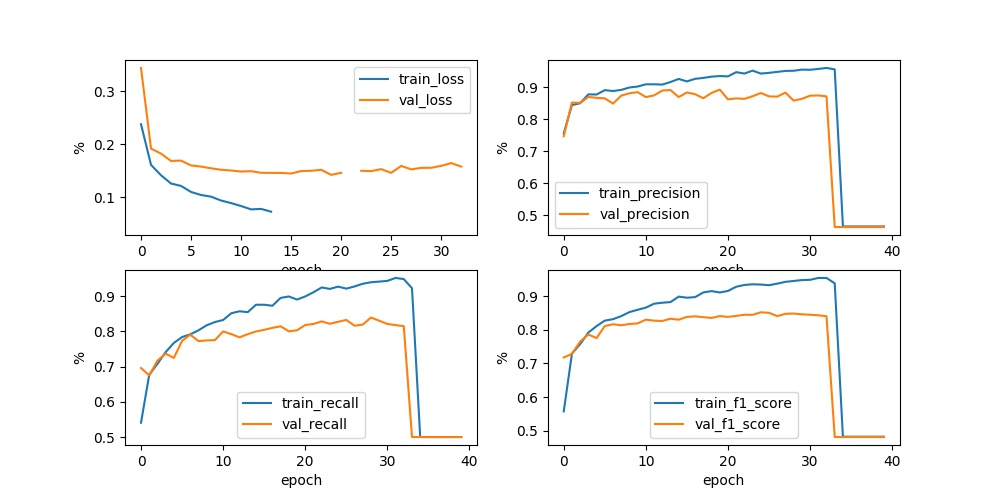
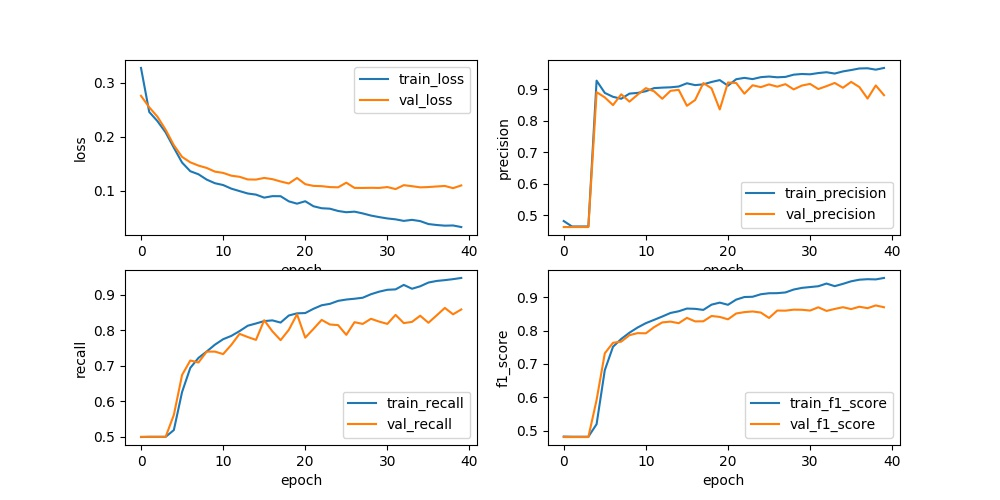
update

diff --git a/model.py b/model.py
@@ -34,7 +34,6 @@ class ConvTagger(nn.Module):
         self.output_projection = nn.Linear(self.feature_size, 2)
 
     def forward(self, sentences, targets):
-        targets = targets.masked_fill(targets > 1, 1)
         mask = sentences != PAD_INDEX
         sentences = self.embedding(sentences)
         targets = self.bio_embedding(targets)
@@ -64,9 +63,7 @@ class ConvLayer(nn.Module):
         self.dropout = dropout
 
     def forward(self, input):
-        # input = input.transpose(1, 2)
         input = self.norm(input)
-        # input = input.transpose(1, 2)
         feature_map = []
         for kernel_size, kernel in zip(self.kernel_sizes, self.kernels):
             left_pad = (kernel_size - 1) // 2
@@ -80,11 +77,36 @@ class ConvLayer(nn.Module):
 
 class RecurrentTagger(nn.Module):
 
-    def __init__(self):
+    def __init__(self, embedding, bio_embed_size, hidden_size, num_layers, dropout, bidirectional):
         super(RecurrentTagger, self).__init__()
+        self.embed_size = embedding.embedding_dim
+        self.embedding = embedding
+        self.bio_embed_size = bio_embed_size
+        self.bio_embedding = nn.Embedding(2, bio_embed_size)
+        self.hidden_size = hidden_size
+        self.num_layers = num_layers
+        self.dropout = dropout
+        self.bidirectional = bidirectional
+        self.rnn = nn.LSTM(
+            input_size=self.embed_size + self.bio_embed_size,
+            hidden_size=self.hidden_size,
+            num_layers=self.num_layers,
+            batch_first=True,
+            dropout=self.dropout,
+            bidirectional=self.bidirectional
+        )
+        self.feature_size = (2 if bidirectional else 1) * hidden_size
+        self.output_projection = nn.Linear(self.feature_size, 2)
 
-    def forward(self, *input):
-        pass
+    def forward(self, sentences, targets):
+        mask = sentences != PAD_INDEX
+        sentences = self.embedding(sentences)
+        targets = self.bio_embedding(targets)
+        feature_map = torch.cat((sentences, targets), dim=-1)
+        feature_map, _ = self.rnn(feature_map)
+        logits = self.output_projection(feature_map)
+        logits = logits.masked_fill(mask.unsqueeze(-1) == 0, 0)
+        return logits
 
 
 class FocalLoss(nn.Module):
@@ -103,45 +125,6 @@ class FocalLoss(nn.Module):
         prob = torch.softmax(logits, dim=-1)
         loss = - one_hot * torch.log(prob) * (1 - prob).pow(self.gamma)
         loss = loss.sum(dim=1, keepdim=False)
-        if self.ignore_index != None:
-            loss = loss.masked_select(mask)
-        loss = loss.mean()
-        return loss
-
-class BinaryFocalLoss(nn.Module):
-
-    def __init__(self, alpha=0.5, gamma=2.0, ignore_index=None, eps=1e-4):
-        super(BinaryFocalLoss, self).__init__()
-        self.alpha = alpha
-        self.gamma = gamma
-        self.ignore_index = ignore_index
-        self.eps = eps
-
-    def forward(self, probs, labels):
-        if self.ignore_index != None:
-            mask = labels != self.ignore_index
-        labels = labels.float()
-        eps = torch.tensor(self.eps).to(labels.device)
-        loss = - self.alpha * labels * torch.log(probs + eps) * (1 - probs).pow(self.gamma) - \
-               (1 - self.alpha) * (1 - labels) * torch.log(1 - eps - probs) * probs.pow(self.gamma)
-        if self.ignore_index != None:
-            loss = loss.masked_select(mask)
-        loss = loss.mean()
-        return loss
-
-class BCELoss(nn.Module):
-
-    def __init__(self, ignore_index=None, eps=1e-4):
-        super(BCELoss, self).__init__()
-        self.ignore_index = ignore_index
-        self.eps = eps
-
-    def forward(self, probs, labels):
-        if self.ignore_index != None:
-            mask = labels != self.ignore_index
-        labels = labels.float()
-        eps = torch.tensor(self.eps).to(labels.device)
-        loss = - labels * torch.log(probs + eps) - (1 - labels) * torch.log(1 - eps - probs)
         if self.ignore_index != None:
             loss = loss.masked_select(mask)
         loss = loss.mean()

diff --git a/train.py b/train.py
@@ -6,8 +6,8 @@ from torch import optim
 from torch.utils.data import DataLoader
 import numpy as np
 import pickle
-from model import ConvTagger, FocalLoss, BinaryFocalLoss, BCELoss
-from utils import ToweDataset, sentence_clip, eval, show
+from model import ConvTagger, RecurrentTagger, FocalLoss
+from utils import ToweDataset, sentence_clip, eval, show, error_analysis
 from sklearn.metrics.scorer import precision_score, recall_score, f1_score
 from visualizer import Visualizer
 
@@ -49,13 +49,22 @@ embedding = nn.Embedding(
 )
 embedding.weight.data.copy_(torch.from_numpy(np.load(glove_path)))
 
-tagger = ConvTagger(
+# tagger = ConvTagger(
+#     embedding=embedding,
+#     bio_embed_size=config['bio_embed_size'],
+#     kernel_sizes=config['kernel_sizes'],
+#     kernel_num=config['kernel_num'],
+#     num_layers=config['num_layers'],
+#     dropout=config['dropout']
+# )
+
+tagger = RecurrentTagger(
     embedding=embedding,
     bio_embed_size=config['bio_embed_size'],
-    kernel_sizes=config['kernel_sizes'],
-    kernel_num=config['kernel_num'],
+    hidden_size=config['hidden_size'],
     num_layers=config['num_layers'],
-    dropout=config['dropout']
+    dropout=config['dropout'],
+    bidirectional=config['bidirectional']
 )
 
 tagger = tagger.cuda()
@@ -83,6 +92,7 @@ for epoch in range(config['num_epoches']):
         sentences = sentence_clip(sentences)
         targets = targets[:, 0:sentences.size(1)].contiguous()
         labels = labels[:, 0:sentences.size(1)].contiguous()
+        # error_analysis(sentences[0], targets[0], labels[0], tagger, index2word)
         logits = tagger(sentences, targets)
         logits = logits.view(-1, 2)
         preds = logits.argmax(dim=-1)

diff --git a/visualizer.py b/visualizer.py
@@ -58,24 +58,24 @@ class Visualizer(object):
         plt.plot(self.epoch, self.train_loss, label='train_loss')
         plt.plot(self.epoch, self.val_loss, label='val_loss')
         plt.xlabel('epoch')
-        plt.ylabel('%')
+        plt.ylabel('loss')
         plt.legend(['train_loss', 'val_loss'])
         plt.subplot(2, 2, 2)
         plt.plot(self.epoch, self.train_precision, label='train_precision')
         plt.plot(self.epoch, self.val_precision, label='val_precision')
         plt.xlabel('epoch')
-        plt.ylabel('%')
+        plt.ylabel('precision')
         plt.legend(['train_precision', 'val_precision'])
         plt.subplot(2, 2, 3)
         plt.plot(self.epoch, self.train_recall, label='train_recall')
         plt.plot(self.epoch, self.val_recall, label='val_recall')
         plt.xlabel('epoch')
-        plt.ylabel('%')
+        plt.ylabel('recall')
         plt.legend(['train_recall', 'val_recall'])
         plt.subplot(2, 2, 4)
         plt.plot(self.epoch, self.train_f1_score, label='train_f1_score')
         plt.plot(self.epoch, self.val_f1_score, label='val_f1_score')
         plt.xlabel('epoch')
-        plt.ylabel('%')
+        plt.ylabel('f1_score')
         plt.legend(['train_f1_score', 'val_f1_score'])
         plt.savefig(self.save_path)

diff --git a/utils.py b/utils.py
@@ -153,3 +153,14 @@ def show(sentence, target, label, index2word):
     print(sentence[0:length])
     print(target[0:length])
     print(label[0:length])
+
+def error_analysis(sentence, target, label, model, index2word):
+    pred = model(sentence.unsqueeze(0), target.unsqueeze(0)).squeeze(0).argmax(dim=-1).tolist()
+    sentence, target, label = sentence.tolist(), target.tolist(), label.tolist()
+    length = min([x if label[x]==-1 else 1000 for x in range(len(label))])
+    text = ''.join([index2word[x] + ' ' for x in sentence[0:length]])
+    print(text)
+    print(sentence[0:length])
+    print(target[0:length])
+    print(label[0:length])
+    print(pred[0:length])
